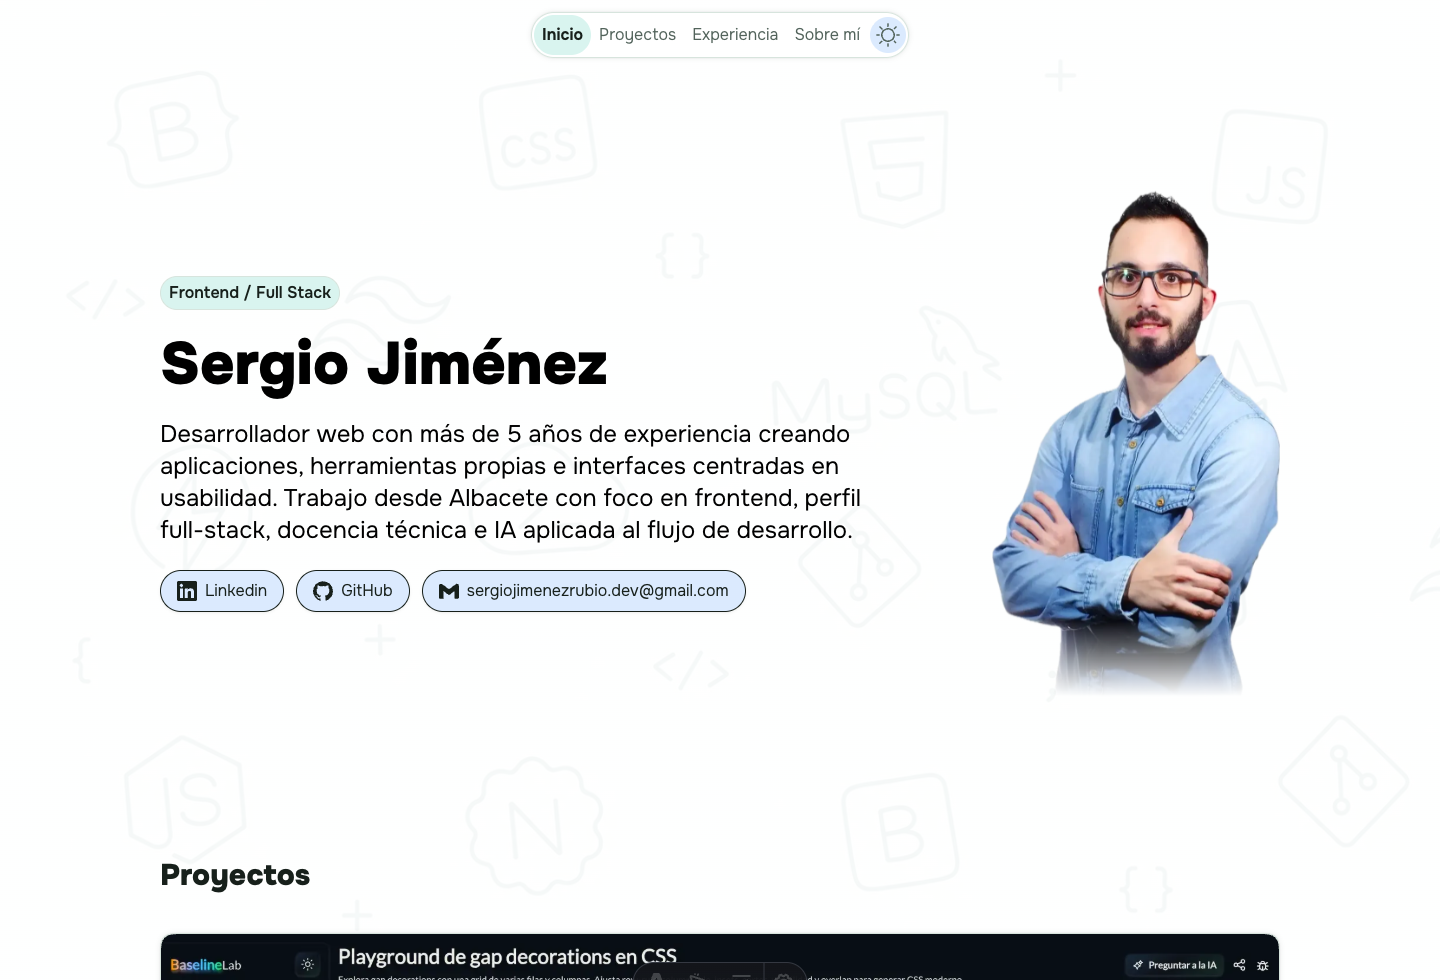
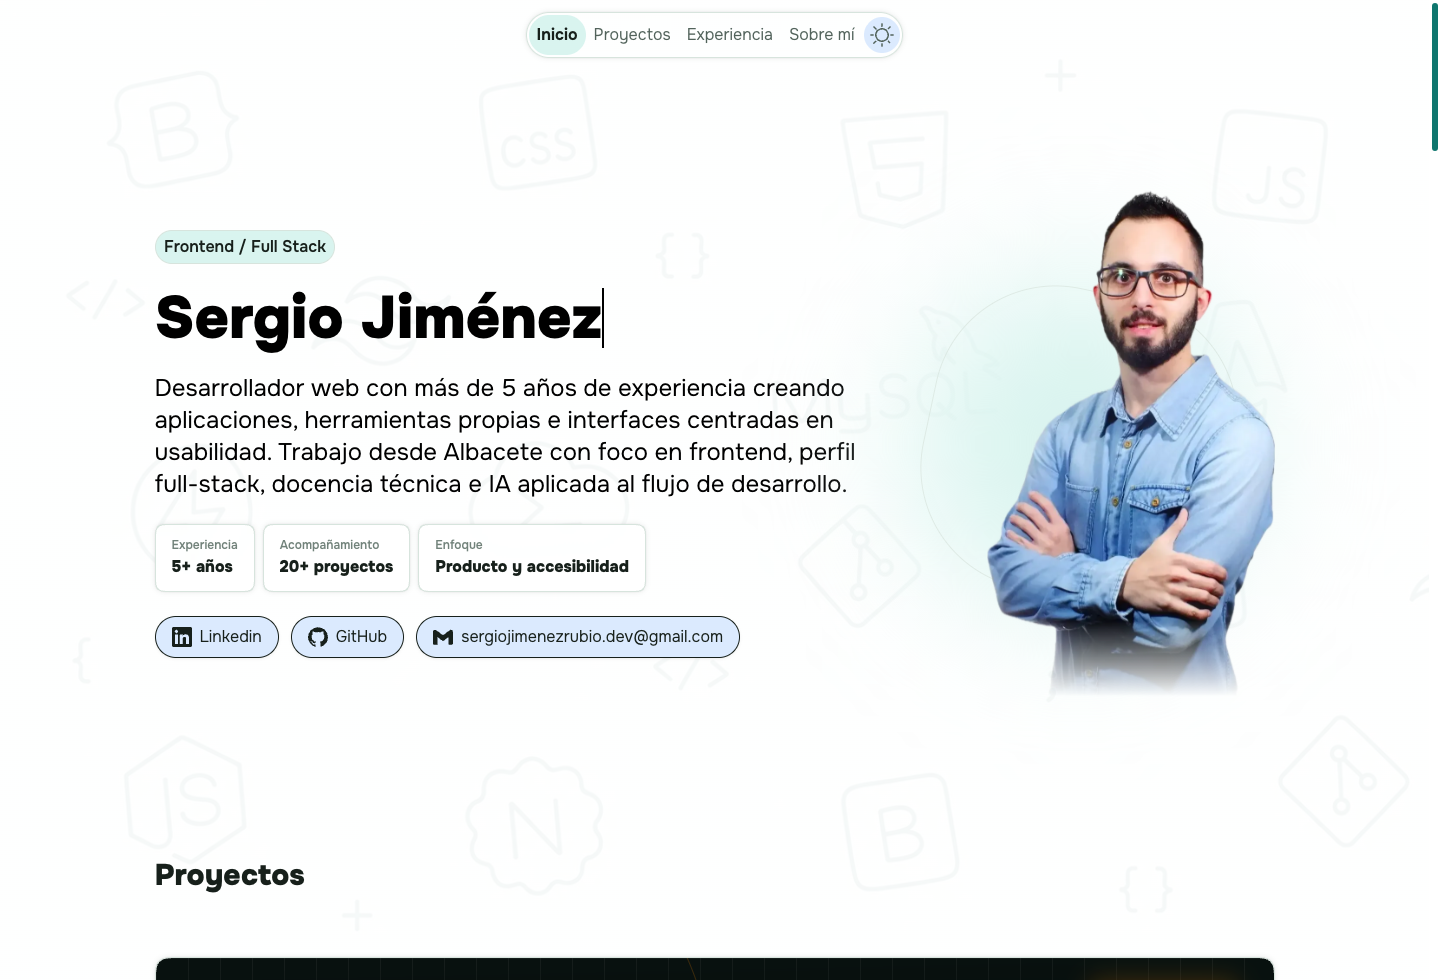
docs: update portfolio README and screenshots

diff --git a/README.md b/README.md
@@ -1,6 +1,6 @@
 # Portfolio de Sergio Jiménez Rubio
 
-Repositorio del portfolio personal de Sergio Jiménez Rubio, desarrollado con Astro y Tailwind CSS. El objetivo del proyecto es mostrar mi perfil como desarrollador Frontend / Full Stack, documentar proyectos destacados y dejar visible cómo está construido el sitio para que pueda revisarse en público.
+Portfolio personal desarrollado con Astro, TypeScript y Tailwind CSS. Presenta mi perfil como desarrollador Frontend / Full Stack, mi trayectoria y una selección de productos en los que he trabajado, con especial atención a la usabilidad, la accesibilidad y el detalle visual.
 
 ## Redes
 
@@ -15,38 +15,39 @@ Repositorio del portfolio personal de Sergio Jiménez Rubio, desarrollado con As
 
 ## Capturas
 
-### Inicio en desktop
+### Inicio en escritorio · tema claro
 
 ![Inicio del portfolio en modo claro](./public/images/readme/home-desktop-light.png)
 
-### Proyectos en modo oscuro
+### Proyectos en escritorio · tema oscuro
 
 ![Sección de proyectos del portfolio en modo oscuro](./public/images/readme/projects-desktop-dark.png)
 
-### Vista móvil
+### Inicio en móvil · tema oscuro
 
 <img src="./public/images/readme/home-mobile-dark.png" alt="Inicio del portfolio en móvil y modo oscuro" width="360" />
 
 ## Stack
 
-- Astro 6
-- TypeScript
+- Astro 7
+- TypeScript 6
 - Tailwind CSS 4
-- Astro Assets para optimización de imágenes y fuentes
-- Vercel Analytics
-- Fuente local Onest
+- Astro Assets y Astro Fonts
+- Vercel Analytics y Speed Insights
+- Fuente variable local Onest
 
 ## Qué incluye
 
-- Home one-page con navegación por secciones.
-- Sección de proyectos con imágenes optimizadas y enlaces externos.
-- Timeline de experiencia y estudios.
-- Bloque "Sobre mí" con highlights visuales.
+- Home de una sola página con navegación activa por secciones.
+- Proyectos destacados en tarjetas apilables con capturas optimizadas, tecnologías y enlaces externos.
+- Trayectoria profesional y formación con detalles desplegables.
+- Secciones dedicadas al proceso de trabajo, perfil profesional y contacto.
 - Tema claro/oscuro con persistencia en `localStorage`.
-- Transición visual del cambio de tema cuando el navegador soporta View Transitions.
+- Transición de tema mediante View Transitions cuando el navegador lo permite.
+- Experiencia responsive con navegación inferior y selector de tema independiente en móvil.
+- Preferencias de movimiento reducido, enlace para saltar al contenido y estados de foco visibles.
 - Metadatos SEO, Open Graph, Twitter Cards y JSON-LD de tipo `Person`.
-- `robots.txt` generado desde Astro.
-- Diseño responsive con navegación inferior en móvil.
+- `robots.txt` generado como endpoint de Astro.
 
 ## Estructura del proyecto
 
@@ -64,6 +65,11 @@ Repositorio del portfolio personal de Sergio Jiménez Rubio, desarrollado con As
 │   │   ├── icons/
 │   │   └── images/
 │   ├── components/
+│   │   ├── experience/
+│   │   ├── header/
+│   │   ├── projects/
+│   │   ├── shared/
+│   │   └── start-description/
 │   ├── layouts/
 │   ├── pages/
 │   └── styles/
@@ -73,4 +79,4 @@ Repositorio del portfolio personal de Sergio Jiménez Rubio, desarrollado con As
 └── pnpm-workspace.yaml
 ```
 
-Las páginas viven en `src/pages/`, los componentes reutilizables en `src/components/`, la configuración de SEO y el layout base en `src/layouts/Layout.astro`, y los tokens visuales globales en `src/styles/global.css`.
+Las rutas viven en `src/pages/`, los componentes se agrupan por área en `src/components/`, el layout base y los metadatos están en `src/layouts/Layout.astro`, y los tokens visuales, temas y animaciones globales se definen en `src/styles/global.css`.
